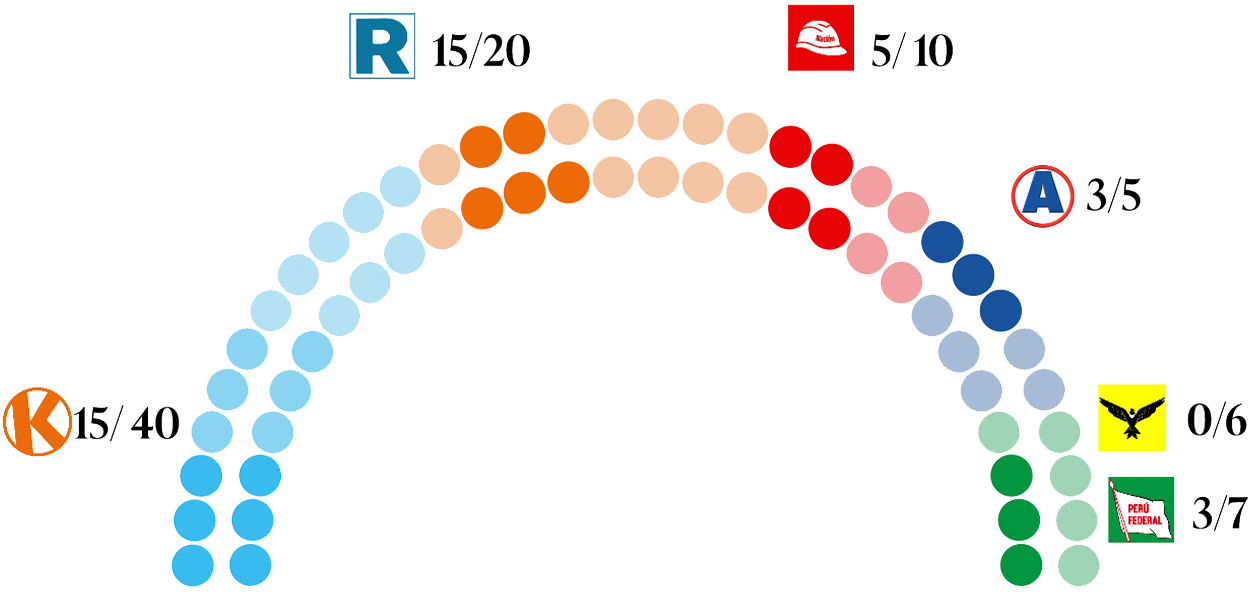
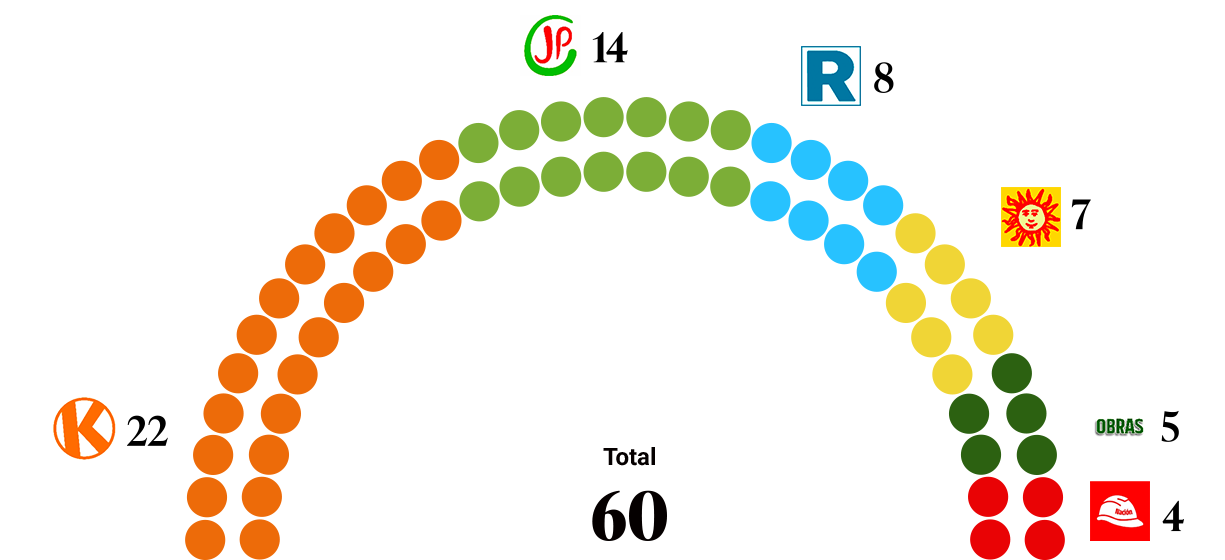
update hemiciclos

diff --git a/css/style.css b/css/style.css
@@ -257,58 +257,111 @@ span.indicacion{
 /* ── HEMICICLOS ─────────────────────────── */
 #hemiciclos{background: #F5F5F5;}
 /* ── HEM-IMAGE-BLOCK (reutilizable) ────────── */
+
+#hemiciclos h3{
+    font: 1rem / 1.1 'Roboto', sans-serif;
+    font-weight: 900;
+    text-align: center;
+    text-transform: uppercase;
+}
+#hemiciclos p{
+    color: #000;
+    font: .9rem/1.5 'Roboto', sans-serif; 
+    font-weight: 400;
+    text-align: center;
+    max-width: 450px;
+    margin: 8px auto 32px;
+}
+
 .hem-image-block {
     border-bottom: 1px solid #c2c2c2;
-    margin-bottom: 20px;
+    margin-bottom: 60px;
     padding-bottom: 60px;
 }
 .hem-tabs{
-    display: inline-block;
-    margin-bottom: 32px;
-    vertical-align: top;}
-.hem-tab{
     display: block;
-    font-family:'Roboto', sans-serif; font-size:.82rem;font-weight:400;
-    padding:8px 22px;cursor:pointer;
-    border:none;background:transparent;
-    transition:all .2s;color:var(--ink);
-    text-transform: uppercase;
-    margin-bottom: 5px;
-    position: relative;
+    margin-bottom: 32px;
+    text-align: center;
 }
-    .hem-tab i,
-    .mapa-filter-btn i{
-        width: 0;
-        height: 0;
-        border-style: solid;
-        border-width: 10px 0px 10px 15px;
-        border-color: transparent transparent transparent #f5f5f5;
-        transform: rotate(0deg);
-        position: absolute;
-        right: 0;
-        top: 20%;
-    }
-    .mapa-filter-btn i{
-        border-color: transparent transparent transparent #fff;
-    }
+.hem-toggle-label{
+    display: block;
+    font: .72rem/1 'Roboto', sans-serif;
+    color: var(--muted);
+    margin-bottom: 10px;
+    letter-spacing: .04em;
+}
+.hem-toggle-row{
+    display: inline-flex;
+    align-items: center;
+    gap: 18px;
+    padding: 14px 32px;
+    border-top: 1px solid #d8d8d8;
+    border-bottom: 1px solid #d8d8d8;
+}
+.hem-toggle-opt{
+    font-family: 'Roboto', sans-serif;
+    font-size: .78rem;
+    font-weight: 400;
+    text-transform: uppercase;
+    color: #bbb;
+    transition: color .25s, font-weight .25s;
+}
+.hem-toggle-opt.active{
+    color: #000;
+    font-weight: 800;
+}
+.hem-toggle-switch{
+    position: relative;
+    display: inline-block;
+    width: 46px;
+    height: 26px;
+    flex-shrink: 0;
+    cursor: pointer;
+}
+.hem-toggle-switch input{ opacity:0; width:0; height:0; position:absolute; }
+.hem-toggle-slider{
+    position: absolute;
+    inset: 0;
+    background: #ababab;
+    border-radius: 26px;
+    transition: background .3s;
+}
+.hem-toggle-slider::before{
+    content: '';
+    position: absolute;
+    width: 20px; height: 20px;
+    left: 3px; top: 3px;
+    background: #fff;
+    border-radius: 50%;
+    transition: transform .3s;
+    box-shadow: 0 1px 3px rgba(0,0,0,.3);
+}
+.hem-toggle-switch input:checked + .hem-toggle-slider::before{
+    transform: translateX(20px);
+}
+.hem-tab{ display:none; }
 .separador{
     background-color: #aaaaaa;
     height: 1px;
     width: 150px;
 }
-.hem-tab.active{
-    color:#000;
-    font-weight: 800;
+.mapa-filter-btn i{
+    width: 0; height: 0;
+    border-style: solid;
+    border-width: 10px 0px 10px 15px;
+    border-color: transparent transparent transparent #fff;
+    transform: rotate(0deg);
+    position: absolute;
+    right: 0; top: 20%;
 }
-    .hem-tab.active i,
-    .mapa-filter-btn.active i{
-        border-color: transparent transparent transparent #000000;
-    }
+.mapa-filter-btn.active i{
+    border-color: transparent transparent transparent #000000;
+}
 /* Contenedor de imagen del hemiciclo */
 .hem-img-wrap{
-  position: relative;
-  width: 70%;
-  margin: 0 auto;
+    position: relative;
+    width: 55%;
+    margin: 60px auto 0;
 }
 .hem-img{
   display:block;width:100%;height:auto;
@@ -324,7 +377,7 @@ span.indicacion{
   pointer-events: none;
 }
     .hotspot-1{
-        bottom: 27%;
+        bottom: 24%;
         left: 3%;
     }
     .hotspot-2{
@@ -336,16 +389,16 @@ span.indicacion{
         top: 8%;        
     }
     .hotspot-4{
-        right: 17.5%;
+        right: 16.5%;
         top: 24%;        
     }
     .hotspot-5{
-        right: 7.5%;
+        right: 6.5%;
         top: 50%;        
     }
     .hotspot-6{
-        bottom: 8%;    
-        right: 2.5%;      
+        bottom: 5%;    
+        right: 1.5%;      
     }
 .hem-hotspot{
     position: absolute;

diff --git a/index.html b/index.html
@@ -168,7 +168,12 @@
     <!-- ══ HEMICICLOS ════════════════════════════ -->
     <section id="hemiciclos">
         <div class="max-w">
-            <h2 class="sec-title">¿Cómo quedan conformadas las bancadas?</h2>           
+            <h2 class="sec-title">¿Cómo quedan conformadas las bancadas?</h2>  
+            
+            <h3>diputados</h3>
+            <p>
+                Lorem ipsum dolor sit amet consectetur adipiscing elit tincidunt lacus, magna mauris sociis augue non mi senectus dictum, in
+            </p>
             <!-- hem-image-block: bloque reutilizable. Pasar id único, tabs y rutas de imágenes via data-attrs -->
             <div class="hem-image-block"
                  data-block="bancadas"
@@ -227,19 +232,32 @@
                     </div>
                 </div>
             </div>
+
+            <h3>senadores</h3>
+            <p>
+                Lorem ipsum dolor sit amet consectetur adipiscing elit tincidunt lacus, magna mauris sociis augue non mi senectus dictum, in
+            </p>
             <div class="hem-image-block"
                  data-block="bancadasDiputados"
                  data-tab-a-label="Diputados"
-                 data-tab-a-img="./img/imagen-hemiciclo-1.png"
+                 data-tab-a-img="./img/imagen-hemiciclo-2.png"
                  data-tab-b-label="Regiones"
-                 data-tab-b-img="./img/imagen-hemiciclo-2.png">
+                 data-tab-b-img="./img/imagen-hemiciclo-3.png">
                 <div class="hem-tabs">
-                    <button class="hem-tab active" onclick="setHemImageTab(this)">Diputados<i></i></button>
-                    <div class="separador"></div>
-                    <button class="hem-tab"         onclick="setHemImageTab(this)">Regiones<i></i></button>
+                    <span class="hem-toggle-label">Filtrar</span>
+                    <div class="hem-toggle-row">
+                        <span class="hem-toggle-opt hem-toggle-opt--a active">Todos</span>
+                        <label class="hem-toggle-switch">
+                            <input type="checkbox" onchange="onHemToggle(this)">
+                            <span class="hem-toggle-slider"></span>
+                        </label>
+                        <span class="hem-toggle-opt hem-toggle-opt--b">Representación regional</span>
+                    </div>
+                    <button class="hem-tab active" style="display:none" onclick="setHemImageTab(this)"></button>
+                    <button class="hem-tab"        style="display:none" onclick="setHemImageTab(this)"></button>
                 </div>
                 <div class="hem-img-wrap">
-                    <img class="hem-img" src="./img/imagen-hemiciclo-1.png" alt="Hemiciclo nivel nacional">
+                    <img class="hem-img" src="./img/imagen-hemiciclo-2.png" alt="Hemiciclo nivel nacional">
                     <!-- Hotspots Tab A – Diputados -->
                     <div class="hem-hotspots hem-hotspots--a">
                         <div class="hem-hotspot" style="left:50%;top:38%">

diff --git a/js/main.js b/js/main.js
@@ -158,7 +158,6 @@ function showCV(idx, el) {
     if (!c) return;
     document.querySelectorAll('.panel-list-item').forEach(x => x.classList.remove('active'));
     el.classList.add('active');
-    const meta = PARTIDOS[c.partido] || { sigla: '?', color: '#888', bg: '#eee' };
     const cv = document.getElementById('panel-cv');
 
     const foto = c.fotoCandidato || './img/fotos-candidatos/avatar-candidato.png';
@@ -331,7 +330,6 @@ function showCV(idx, el) {
 function buildHemSVG(data, totalSeats) {
   const W=340, H=180, cx=W/2, cy=H, R=148, r=116;
   const entries = Object.entries(data);
-  const totalData = entries.reduce((a,[,v])=>a+v,0);
   let dots=[];
   let rows=4;
   // place dots in arc rows
@@ -392,6 +390,17 @@ function buildHemiciclo(containerId, tipo, nivel) {
     </div>
     <div class="hem-logos-col right">${rightHTML}</div>
   `;
+}
+
+// ── HEM TOGGLE ────────────────────────────────
+function onHemToggle(input) {
+  const block = input.closest('.hem-image-block');
+  const idx = input.checked ? 1 : 0;
+  block.querySelectorAll('.hem-toggle-opt').forEach((opt, i) => {
+    opt.classList.toggle('active', i === idx);
+  });
+  const tabs = [...block.querySelectorAll('.hem-tab')];
+  if (tabs[idx]) setHemImageTab(tabs[idx]);
 }
 
 // ── HEM-IMAGE-BLOCK: función genérica reutilizable ──────────────────────────
@@ -588,7 +597,6 @@ function initPxStories() {
   const bgEls    = Array.from(document.querySelectorAll('.px-bg'));
   const scenes   = Array.from(document.querySelectorAll('.px-scene'));
   const cardEls  = Array.from(document.querySelectorAll('.px-card'));
-  const N        = scenes.length;   // 5
   const VH       = () => window.innerHeight;
 
   function onScroll() {
